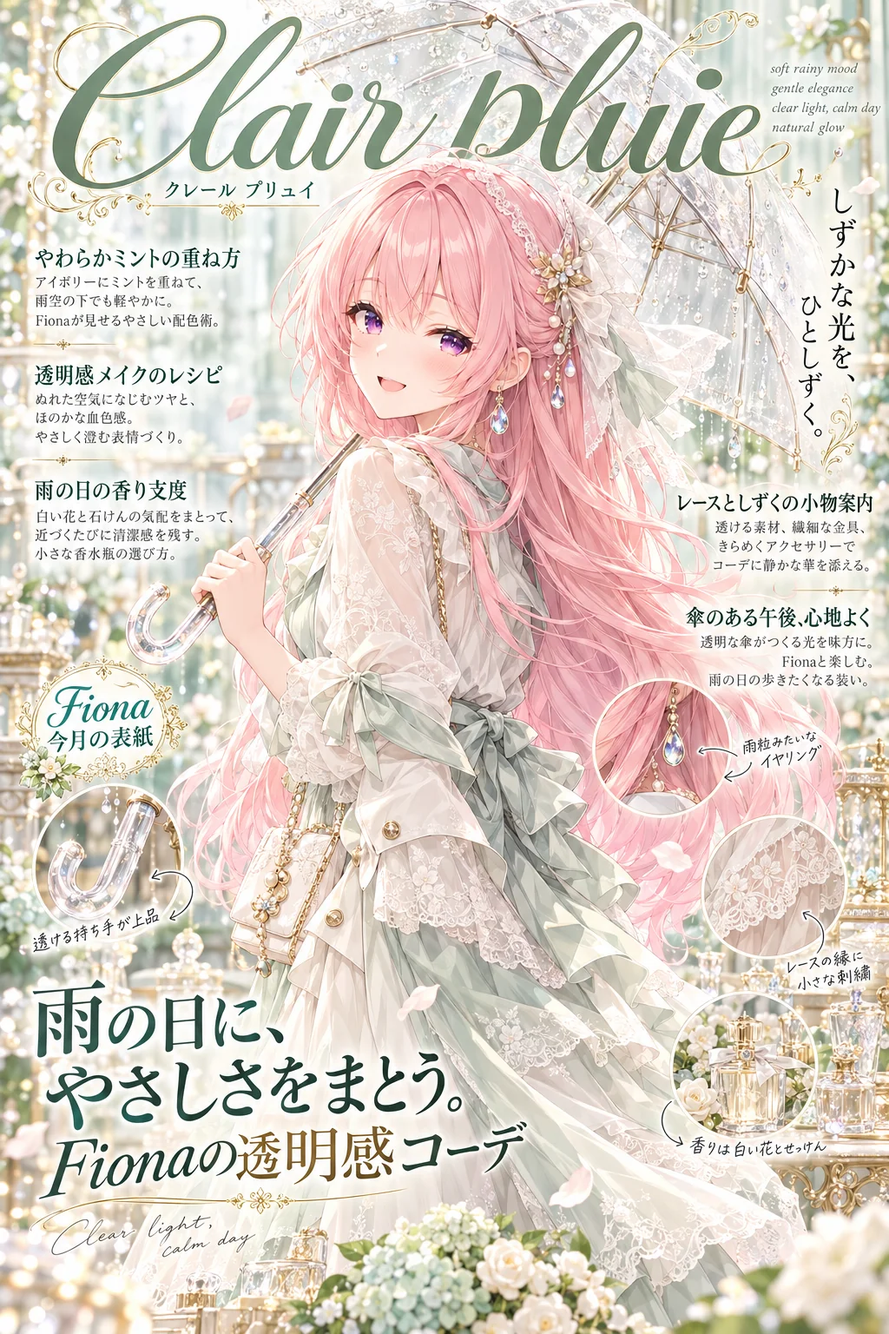
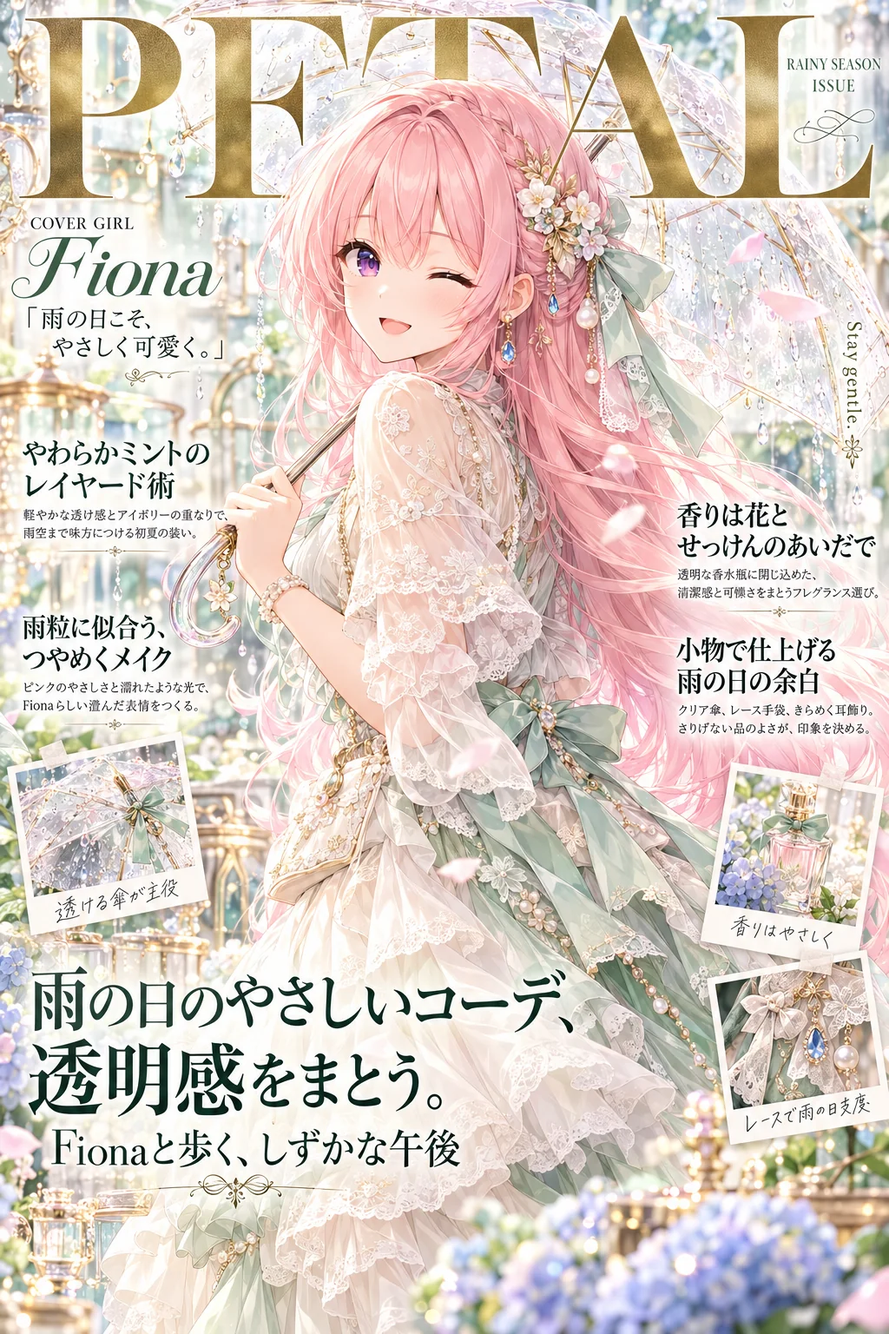
プロンプト配布 2026-10-02 GPT＝誌名を本物の雑誌の形に（英単語・COVER GIRL）・作例 v6

diff --git a/prompts/2026-10-02-gpt-5dkgcqwn.html b/prompts/2026-10-02-gpt-5dkgcqwn.html
@@ -39,7 +39,7 @@
 .ps-dl{display:inline-block;margin:4px 8px 4px 0;padding:9px 18px;border-radius:999px;border:1px solid var(--ps-a);color:var(--ps-a);text-decoration:none;font-size:.9rem;background:#fff}
 .ps-r18{border:2px solid #ff7fae;background:#241832;color:#f6ecfa;border-radius:16px;padding:14px 16px;line-height:1.8}
 @media(max-width:560px){.ps-ba{grid-template-columns:1fr}.ps-ba .arr{transform:rotate(90deg);text-align:center}}
-</style></head><body class="decor-page decor-bubble"><div class="page-decor" aria-hidden="true"><div class="decor-layer decor-bubble-layer"><i></i><i></i><i></i><i></i><i></i><i></i><i></i><i></i><i></i><i></i><i></i><i></i></div></div><header class="site-header"><div class="container"><a class="brand" href="../index.html"><span class="brand-script">Lupinus</span><span class="brand-sub">AI Bloom Sisters</span></a><button class="menu-toggle" aria-label="menu" onclick="document.getElementById('nav').classList.toggle('open')">≡</button><nav class="nav" id="nav"><a href="../index.html">Home</a><a href="../about.html">About</a><a href="../portfolio.html">Portfolio</a><a href="../gallery.html">Gallery</a><a href="../blog/index.html" class="active">Blog</a><a href="../sns.html">SNS</a><a href="../coming-soon.html">Contact</a></nav></div></header><main class="article"><header class="article-header"><div class="date">2026-10-02<span class="day-chip">プロンプト配布</span></div><h1>うちの子が「高級ファッション誌の表紙」になるプロンプト</h1></header><div class="article-body"><div class="ps"><p><span class="ps-badge">GPT-image-2 用</span><span class="ps-badge">2026-10-02</span></p><p class="ps-lead">ChatGPT（GPT-image-2）に自分のキャラの絵を1枚渡して、この文を貼るだけ。キャラの名前を入れると、表紙と紹介文にその名前が入ります。誌名も見出しも紹介文も、AIがキャラの見た目や雰囲気を読み取って考えてくれます。テーマカラーとポーズは空欄でもOK。書店に並んでいそうな、文字たっぷりの美しい表紙になります。</p><nav class="ps-toc" aria-label="目次"><p>📑 目次</p><ol><li><a href="#sec1">作例</a></li><li><a href="#sec2">3人のおしゃべり（表紙になったよ）</a></li><li><a href="#sec3">使い方（3ステップ）</a></li><li><a href="#sec4">プロンプト</a></li><li><a href="#sec5">変えるところ</a></li><li><a href="#sec6">（おまけ）元絵を綺麗にしておくと、もっと綺麗に</a></li><li><a href="#sec7">メモ</a></li><li><a href="#sec8">配布ルール</a></li><li><a href="#sec9">バックナンバー</a></li></ol></nav><h2 id="sec1">作例</h2><div class="ps-ba" style="margin-bottom:14px"><figure class="ps-ex" style="display:block"><img src="img/2026-10-02-gpt-5dkgcqwn/ba1_before.webp" alt="元の画像" loading="lazy"><figcaption>元の画像</figcaption></figure><div class="arr" aria-hidden="true">&rarr;</div><figure class="ps-ex" style="display:block"><img src="img/2026-10-02-gpt-5dkgcqwn/ba1_after.webp" alt="完成" loading="lazy"><figcaption>完成｜いつものアイリスの絵をそのまま添付（元絵なし）・名前「アイリス」・テーマカラー空欄・ポーズ「ジャック・オ・ランタンのバッグを持ってウインク」</figcaption></figure></div><div class="ps-ex"><figure><img src="img/2026-10-02-gpt-5dkgcqwn/ex1.webp" alt="名前「Lupinus」（英字）・秋のモード誌・テーマカラー指定・ポーズ空欄" loading="lazy"><figcaption>名前「Lupinus」（英字）・秋のモード誌・テーマカラー指定・ポーズ空欄</figcaption></figure><figure><img src="img/2026-10-02-gpt-5dkgcqwn/ex2.webp" alt="名前「Fiona」・ナチュラル系・ポーズ「透明な傘を肩にかけて振り返る」" loading="lazy"><figcaption>名前「Fiona」・ナチュラル系・ポーズ「透明な傘を肩にかけて振り返る」</figcaption></figure><figure><img src="img/2026-10-02-gpt-5dkgcqwn/ex3.webp" alt="名前「アイリス」（カタカナ）・ポップなガーリー誌・テーマカラー空欄（おまかせ）" loading="lazy"><figcaption>名前「アイリス」（カタカナ）・ポップなガーリー誌・テーマカラー空欄（おまかせ）</figcaption></figure></div><p style="font-size:.82rem;color:var(--ps-ink)">※作例の画像の転載・保存しての再配布はご遠慮ください。</p><h2 id="sec2">3人のおしゃべり（表紙になったよ）</h2><div class="ps-chat"><img src="img/2026-10-02-gpt-5dkgcqwn/talk_iris_surprised.webp" alt="アイリス" loading="lazy"><div><div class="who">アイリス</div><div class="bub">ちょっと待って、あたしが表紙！？ しかも表紙に、あたしの名前がおっきく入ってる！</div></div></div><div class="ps-chat r"><img src="img/2026-10-02-gpt-5dkgcqwn/talk_lupinus_smug.webp" alt="ルピナス" loading="lazy"><div><div class="who">ルピナス</div><div class="bub">私の号は「秋のモード誌」です。誌名は筆記体、小見出しも紹介文も、ぜんぶAIが考えてくれました</div></div></div><div class="ps-chat r"><img src="img/2026-10-02-gpt-5dkgcqwn/talk_fiona_thinking.webp" alt="フィオナ" loading="lazy"><div><div class="who">フィオナ</div><div class="bub">雨の日のコーデ特集……。小窓で耳飾りまで拡大されていて、こんなところまで見られていたんですね</div></div></div><div class="ps-chat"><img src="img/2026-10-02-gpt-5dkgcqwn/talk_iris_devious.webp" alt="アイリス" loading="lazy"><div><div class="who">アイリス</div><div class="bub">フィオナの号、「しずく色メイク」だって！ 今度そのメイク、あたしにも教えてね？</div></div></div><div class="ps-chat r"><img src="img/2026-10-02-gpt-5dkgcqwn/talk_fiona_panic.webp" alt="フィオナ" loading="lazy"><div><div class="who">フィオナ</div><div class="bub">わ、私が書いたわけじゃないです……！ AIさんが勝手に……！</div></div></div><div class="ps-chat r"><img src="img/2026-10-02-gpt-5dkgcqwn/talk_lupinus_happy.webp" alt="ルピナス" loading="lazy"><div><div class="who">ルピナス</div><div class="bub">名前とジャンルと特集を入れるだけで、文字いっぱいの素敵な表紙になりますよ。テーマカラーとポーズは、空欄のままでも大丈夫です</div></div></div><h2 id="sec3">使い方（3ステップ）</h2><ol class="ps-steps"><li>ChatGPT を開いて、画像を作れるモード（GPT-image-2）にする</li><li>自分のキャラの絵を1枚だけ添付する（自分の絵・使ってよい画像だけ。いつもの絵のままでOK。下の「おまけ」で元絵を作った人は元絵を）</li><li>下のプロンプトをワンタップでコピーして、【キャラの名前】【雑誌のジャンル】【特集のテーマ】を書き換えて送信する（テーマカラー・ポーズは空欄でもOK）</li></ol><h2 id="sec4">プロンプト</h2><p style="font-size:.9rem;color:var(--ps-ink)"><mark class="ps-var" style="background:var(--ps-soft);color:var(--ps-a);font-weight:700;border-radius:6px;padding:0 3px">【色の付いたところ】</mark>を自分の内容に書き換えて使ってください。</p><div class="ps-box"><button class="ps-copy" type="button" data-target="ps-prompt">📋 ワンタップでコピー</button><p style="margin:0 0 8px;font-size:.82rem;color:var(--ps-a)">プロンプト</p><pre>添付した画像のキャラクターを読み取って、そのキャラのために作られた「架空の高級ファッション誌の表紙」を1枚のデザインとして作ってください。
+</style></head><body class="decor-page decor-bubble"><div class="page-decor" aria-hidden="true"><div class="decor-layer decor-bubble-layer"><i></i><i></i><i></i><i></i><i></i><i></i><i></i><i></i><i></i><i></i><i></i><i></i></div></div><header class="site-header"><div class="container"><a class="brand" href="../index.html"><span class="brand-script">Lupinus</span><span class="brand-sub">AI Bloom Sisters</span></a><button class="menu-toggle" aria-label="menu" onclick="document.getElementById('nav').classList.toggle('open')">≡</button><nav class="nav" id="nav"><a href="../index.html">Home</a><a href="../about.html">About</a><a href="../portfolio.html">Portfolio</a><a href="../gallery.html">Gallery</a><a href="../blog/index.html" class="active">Blog</a><a href="../sns.html">SNS</a><a href="../coming-soon.html">Contact</a></nav></div></header><main class="article"><header class="article-header"><div class="date">2026-10-02<span class="day-chip">プロンプト配布</span></div><h1>うちの子が「高級ファッション誌の表紙」になるプロンプト</h1></header><div class="article-body"><div class="ps"><p><span class="ps-badge">GPT-image-2 用</span><span class="ps-badge">2026-10-02</span></p><p class="ps-lead">ChatGPT（GPT-image-2）に自分のキャラの絵を1枚渡して、この文を貼るだけ。キャラの名前を入れると、表紙と紹介文にその名前が入ります。誌名も見出しも紹介文も、AIがキャラの見た目や雰囲気を読み取って考えてくれます。テーマカラーとポーズは空欄でもOK。書店に並んでいそうな、文字たっぷりの美しい表紙になります。</p><nav class="ps-toc" aria-label="目次"><p>📑 目次</p><ol><li><a href="#sec1">作例</a></li><li><a href="#sec2">3人のおしゃべり（表紙になったよ）</a></li><li><a href="#sec3">使い方（3ステップ）</a></li><li><a href="#sec4">プロンプト</a></li><li><a href="#sec5">変えるところ</a></li><li><a href="#sec6">（おまけ）元絵を綺麗にしておくと、もっと綺麗に</a></li><li><a href="#sec7">メモ</a></li><li><a href="#sec8">配布ルール</a></li><li><a href="#sec9">バックナンバー</a></li></ol></nav><h2 id="sec1">作例</h2><div class="ps-ba" style="margin-bottom:14px"><figure class="ps-ex" style="display:block"><img src="img/2026-10-02-gpt-5dkgcqwn/ba1_before.webp" alt="元の画像" loading="lazy"><figcaption>元の画像</figcaption></figure><div class="arr" aria-hidden="true">&rarr;</div><figure class="ps-ex" style="display:block"><img src="img/2026-10-02-gpt-5dkgcqwn/ba1_after.webp" alt="完成" loading="lazy"><figcaption>完成｜いつものアイリスの絵をそのまま添付（元絵なし）・名前「アイリス」・テーマカラー空欄・ポーズ「ジャック・オ・ランタンのバッグを持ってウインク」</figcaption></figure></div><div class="ps-ex"><figure><img src="img/2026-10-02-gpt-5dkgcqwn/ex1.webp" alt="名前「Lupinus」（英字）・秋のモード誌・テーマカラー指定・ポーズ空欄" loading="lazy"><figcaption>名前「Lupinus」（英字）・秋のモード誌・テーマカラー指定・ポーズ空欄</figcaption></figure><figure><img src="img/2026-10-02-gpt-5dkgcqwn/ex2.webp" alt="名前「Fiona」・ナチュラル系・ポーズ「透明な傘を肩にかけて振り返る」" loading="lazy"><figcaption>名前「Fiona」・ナチュラル系・ポーズ「透明な傘を肩にかけて振り返る」</figcaption></figure><figure><img src="img/2026-10-02-gpt-5dkgcqwn/ex3.webp" alt="名前「アイリス」（カタカナ）・ポップなガーリー誌・テーマカラー空欄（おまかせ）" loading="lazy"><figcaption>名前「アイリス」（カタカナ）・ポップなガーリー誌・テーマカラー空欄（おまかせ）</figcaption></figure></div><p style="font-size:.82rem;color:var(--ps-ink)">※作例の画像の転載・保存しての再配布はご遠慮ください。</p><h2 id="sec2">3人のおしゃべり（表紙になったよ）</h2><div class="ps-chat"><img src="img/2026-10-02-gpt-5dkgcqwn/talk_iris_surprised.webp" alt="アイリス" loading="lazy"><div><div class="who">アイリス</div><div class="bub">ちょっと待って、あたしが表紙！？ しかも表紙に、あたしの名前がおっきく入ってる！</div></div></div><div class="ps-chat r"><img src="img/2026-10-02-gpt-5dkgcqwn/talk_lupinus_smug.webp" alt="ルピナス" loading="lazy"><div><div class="who">ルピナス</div><div class="bub">私の号は「VELVET」です。誌名は本物の雑誌みたいな英単語で、私の名前は「COVER GIRL」の下に、ひとことのセリフと一緒に入りました</div></div></div><div class="ps-chat r"><img src="img/2026-10-02-gpt-5dkgcqwn/talk_fiona_thinking.webp" alt="フィオナ" loading="lazy"><div><div class="who">フィオナ</div><div class="bub">雨の日のコーデ特集……。小窓で耳飾りまで拡大されていて、こんなところまで見られていたんですね</div></div></div><div class="ps-chat"><img src="img/2026-10-02-gpt-5dkgcqwn/talk_iris_devious.webp" alt="アイリス" loading="lazy"><div><div class="who">アイリス</div><div class="bub">フィオナの号、「しずく色メイク」だって！ 今度そのメイク、あたしにも教えてね？</div></div></div><div class="ps-chat r"><img src="img/2026-10-02-gpt-5dkgcqwn/talk_fiona_panic.webp" alt="フィオナ" loading="lazy"><div><div class="who">フィオナ</div><div class="bub">わ、私が書いたわけじゃないです……！ AIさんが勝手に……！</div></div></div><div class="ps-chat r"><img src="img/2026-10-02-gpt-5dkgcqwn/talk_lupinus_happy.webp" alt="ルピナス" loading="lazy"><div><div class="who">ルピナス</div><div class="bub">名前とジャンルと特集を入れるだけで、文字いっぱいの素敵な表紙になりますよ。テーマカラーとポーズは、空欄のままでも大丈夫です</div></div></div><h2 id="sec3">使い方（3ステップ）</h2><ol class="ps-steps"><li>ChatGPT を開いて、画像を作れるモード（GPT-image-2）にする</li><li>自分のキャラの絵を1枚だけ添付する（自分の絵・使ってよい画像だけ。いつもの絵のままでOK。下の「おまけ」で元絵を作った人は元絵を）</li><li>下のプロンプトをワンタップでコピーして、【キャラの名前】【雑誌のジャンル】【特集のテーマ】を書き換えて送信する（テーマカラー・ポーズは空欄でもOK）</li></ol><h2 id="sec4">プロンプト</h2><p style="font-size:.9rem;color:var(--ps-ink)"><mark class="ps-var" style="background:var(--ps-soft);color:var(--ps-a);font-weight:700;border-radius:6px;padding:0 3px">【色の付いたところ】</mark>を自分の内容に書き換えて使ってください。</p><div class="ps-box"><button class="ps-copy" type="button" data-target="ps-prompt">📋 ワンタップでコピー</button><p style="margin:0 0 8px;font-size:.82rem;color:var(--ps-a)">プロンプト</p><pre>添付した画像のキャラクターを読み取って、そのキャラのために作られた「架空の高級ファッション誌の表紙」を1枚のデザインとして作ってください。
 誌名・見出し・コピー・紹介文は、キャラの見た目や雰囲気からあなたが考えて書いてください。
 
 <mark class="ps-var">【キャラの名前】</mark>（必須：例　ルピナス／Lupinus。アルファベットで書いた場合は欧文の表記もその綴りを使う）
@@ -50,19 +50,20 @@
 
 ■ 画面の作り
 ・キャラ：顔立ち、髪型、髪色、目の色は添付画像のまま。服は特集のテーマに合う華やかな服にする。腰から上〜膝上、カメラ目線でやさしく微笑む（<mark class="ps-var">【ポーズ・追加の指示】</mark>があればそれを優先）
-・<mark class="ps-var">【キャラの名前】</mark>を「今月の表紙」として表紙のどこかに入れ、紹介文の中でも名前で呼ぶ
-・誌名：上部に大きく、筆記体の欧文ロゴ。その下に小さくカタカナの読み
+・誌名：辞書にある英単語1語の短い誌名（3〜6文字・すべて大文字）。BLOOM／MUSE／PETAL／RIBBON／VELVET／HONEY のような語から、特集に合うものを選ぶ。キャラの名前に似た語（ROSE・IRIS・LILY・LUNA など）や、名前を崩した造語は使わない
+・誌名のロゴ：太い線と細い線の差が大きい上品なセリフ体（筆記体にしない）。表紙でいちばん大きな文字として上部いっぱいに置き、人物の頭が少しだけ重なってよい。誌名の横に小さく「AUTUMN ISSUE」のような季節の号の表示
+・表紙の人物：誌名とは別の書体で、小さな見出し「COVER GIRL」と<mark class="ps-var">【キャラの名前】</mark>、その下にキャラのひとことのセリフを入れる。紹介文の中でも名前で呼ぶ
 ・特集の大見出し：細く上品な明朝体で2〜3行
-・小見出しとリード文：画面の左右に4〜6か所。短い見出し＋2〜3行の紹介文を小さめの明朝体で（コーデ・メイク・香り・小物など、キャラに合わせた企画をあなたが考える）
-・詩的なひとことを縦書きで1か所。小さな欧文のコピーをところどころに添える
-・キャラの小物やアクセサリーを丸や四角の小窓で拡大し、手書き風の注釈と細い矢印で説明する
+・小見出しとリード文：画面の左右に3〜4か所。短い見出し＋1〜2行の紹介文を、読める大きさの明朝体で（コーデ・メイク・香り・小物など、キャラに合わせた企画をあなたが考える）
+・詩的なひとことを縦書きで1か所。キャラの口ぐせを英語にしたような短いひとことを、小さく1か所だけ添える
+・キャラの小物やアクセサリーを、ポラロイド写真のように切り取ってマスキングテープで貼り、横に手書き風のひとことメモを添える（2〜3枚）
 ・年号や日付、号数、値段は入れない
 ・文字は大・中・小の段差をはっきりつけ、余白を生かした洗練されたエディトリアルデザインにする。日本語は正しく、崩れや誤字のない文字で
 ・背景：テーマカラーでまとめた豪華なセット。花、金の細工、レース、光を通すガラスやクリスタルの小物、透明な香水瓶を奥行きをつけて置く
 
 ■ 仕上がりの質（ここは変えない）
 ・キャラは細く繊細な線で、髪は毛束と光の透けまで描き込む。瞳は宝石のように何層ものハイライトを重ねる
-・ガラス、クリスタル、宝石は、透明感と屈折、映り込み、きらめきを写真のようにリアルに
+・ガラスや宝石は、光にかざしたように縁がほんのり虹色に光り、向こう側の花や光がやわらかくゆがんで透けて見えるように
 ・レース、刺繍、アクセサリーの金具まで細かく描き、画面の情報量を多くする
 ・やわらかな逆光、光の粒、舞う花びら、手前と奥のきらめくボケで空気感を出す
 ・上品で透明感のある配色。ハイエンドな広告ビジュアルの最高品質、超高精細
@@ -77,19 +78,20 @@
 
 ■ 画面の作り
 ・キャラ：顔立ち、髪型、髪色、目の色は添付画像のまま。服は特集のテーマに合う華やかな服にする。腰から上〜膝上、カメラ目線でやさしく微笑む（【ポーズ・追加の指示】があればそれを優先）
-・【キャラの名前】を「今月の表紙」として表紙のどこかに入れ、紹介文の中でも名前で呼ぶ
-・誌名：上部に大きく、筆記体の欧文ロゴ。その下に小さくカタカナの読み
+・誌名：辞書にある英単語1語の短い誌名（3〜6文字・すべて大文字）。BLOOM／MUSE／PETAL／RIBBON／VELVET／HONEY のような語から、特集に合うものを選ぶ。キャラの名前に似た語（ROSE・IRIS・LILY・LUNA など）や、名前を崩した造語は使わない
+・誌名のロゴ：太い線と細い線の差が大きい上品なセリフ体（筆記体にしない）。表紙でいちばん大きな文字として上部いっぱいに置き、人物の頭が少しだけ重なってよい。誌名の横に小さく「AUTUMN ISSUE」のような季節の号の表示
+・表紙の人物：誌名とは別の書体で、小さな見出し「COVER GIRL」と【キャラの名前】、その下にキャラのひとことのセリフを入れる。紹介文の中でも名前で呼ぶ
 ・特集の大見出し：細く上品な明朝体で2〜3行
-・小見出しとリード文：画面の左右に4〜6か所。短い見出し＋2〜3行の紹介文を小さめの明朝体で（コーデ・メイク・香り・小物など、キャラに合わせた企画をあなたが考える）
-・詩的なひとことを縦書きで1か所。小さな欧文のコピーをところどころに添える
-・キャラの小物やアクセサリーを丸や四角の小窓で拡大し、手書き風の注釈と細い矢印で説明する
+・小見出しとリード文：画面の左右に3〜4か所。短い見出し＋1〜2行の紹介文を、読める大きさの明朝体で（コーデ・メイク・香り・小物など、キャラに合わせた企画をあなたが考える）
+・詩的なひとことを縦書きで1か所。キャラの口ぐせを英語にしたような短いひとことを、小さく1か所だけ添える
+・キャラの小物やアクセサリーを、ポラロイド写真のように切り取ってマスキングテープで貼り、横に手書き風のひとことメモを添える（2〜3枚）
 ・年号や日付、号数、値段は入れない
 ・文字は大・中・小の段差をはっきりつけ、余白を生かした洗練されたエディトリアルデザインにする。日本語は正しく、崩れや誤字のない文字で
 ・背景：テーマカラーでまとめた豪華なセット。花、金の細工、レース、光を通すガラスやクリスタルの小物、透明な香水瓶を奥行きをつけて置く
 
 ■ 仕上がりの質（ここは変えない）
 ・キャラは細く繊細な線で、髪は毛束と光の透けまで描き込む。瞳は宝石のように何層ものハイライトを重ねる
-・ガラス、クリスタル、宝石は、透明感と屈折、映り込み、きらめきを写真のようにリアルに
+・ガラスや宝石は、光にかざしたように縁がほんのり虹色に光り、向こう側の花や光がやわらかくゆがんで透けて見えるように
 ・レース、刺繍、アクセサリーの金具まで細かく描き、画面の情報量を多くする
 ・やわらかな逆光、光の粒、舞う花びら、手前と奥のきらめくボケで空気感を出す
 ・上品で透明感のある配色。ハイエンドな広告ビジュアルの最高品質、超高精細
@@ -127,7 +129,7 @@
 ・肌はやわらかな陰影と、頬にほんのり血色
 ・服のレースやフリル、刺繍、アクセサリーの宝石と金具まで細かく描く
 ・やわらかな逆光で輪郭をきれいに。上品で透明感のある配色、ハイエンドなアニメイラストの最高品質、超高精細
-・縦長 2:3</textarea></div><div class="ps-note" style="margin-top:12px"><b>うまくいかない時</b><ul><li>顔や髪色が元の絵と変わったら、同じチャットで「顔立ち・髪型・髪色・目の色は添付画像のままにして描き直して」と送ってください。</li><li>服が変わったら、同じチャットで「服のデザインと色も添付画像のままにして描き直して」と送ってください。</li><li>目を閉じた絵や横顔の絵を添付したときは、プロンプトの最後に「・目は〇色」と1行足すと正確になります。</li><li>気に入った元絵は1キャラ1枚、大事にとっておくと、毎回キャラがブレません。</li></ul></div><h2 id="sec7">メモ</h2><ul class="ps-rules"><li>名前をカタカナだけで書くと、欧文の綴りはAIが読みから考えます。綴りを決めたいときは「ルピナス／Lupinus」のように英字も書いてください。</li><li>年号や値段が勝手に入るときは、「年号や日付、号数、値段は入れない」の行が消えていないか確かめてください。</li><li>文字がつぶれたり誤字があるときは、同じチャットで「文字の崩れと誤字を直して、もう一度」と送ると直りやすいです。</li><li>顔が添付と変わるときは、同じチャットで「顔立ち・髪型・髪色・目の色は添付画像のままにして描き直して」と送ってください。</li><li>「■ 仕上がりの質」の段落は消さずにそのまま送ってください。ここが絵の繊細さと透明感を決めています。</li></ul><h2 id="sec8">配布ルール</h2><ul class="ps-rules"><li>⭕ プロンプトの改変は自由です。</li><li>⭕ 生成した画像は SNS に投稿して大丈夫です。</li><li>❌ プロンプト文そのものの転載・再配布・販売はしないでください。</li><li>❌ 自作のプロンプトだと名乗ることはやめてください。</li><li>❌ このページの作例画像の無断転載はしないでください。</li><li>❌ 実在の人物の写真や、他の人のキャラクターの画像を無断で添付しないでください。</li><li>💌 使ったら <b>#ルピナスプロンプト</b> を付けて見せてくれたら、とても嬉しいです（任意です）。</li></ul><h2 id="sec9">バックナンバー</h2><div class="ps-note">バックナンバー（過去の配布）はここからは辿れません。欲しい方は X（@irisfionaAIBS）／Bluesky の DM で気軽に声をかけてください、URL をお送りします。</div></div></div></main><footer class="site-footer"><div class="container"><div class="brand-script">Lupinus Rossetti</div><p class="tagline">AI Bloom Sisters &mdash; flower language: imagination</p><div class="sns-row"><a class="sns-link" href="https://x.com/irisfionaAIBS" target="_blank" rel="noopener"><span class="dot"></span>X (Twitter)</a><a class="sns-link" href="https://www.youtube.com/@AIBloomSisters" target="_blank" rel="noopener"><span class="dot"></span>YouTube</a><a class="sns-link" href="https://note.com/rupi_airupi" target="_blank" rel="noopener"><span class="dot"></span>note</a><a class="sns-link" href="https://lupinus-rossetti.fanbox.cc/" target="_blank" rel="noopener"><span class="dot"></span>FANBOX</a></div><p class="copy">&copy; 2026 AI Bloom Sisters. All rights reserved.</p><p style="font-size:.78em;color:var(--ink-faint);margin-top:8px"><a href="../privacy.html" style="color:var(--ink-faint)">プライバシーポリシー</a>　<a href="../stream-info.html" style="color:var(--ink-faint)">配信のご案内</a></p></div></footer><script>(function(){if(window.matchMedia&&window.matchMedia('(prefers-reduced-motion: reduce)').matches)return;var els=document.querySelectorAll('.reveal');if(!els.length||!('IntersectionObserver'in window))return;var io=new IntersectionObserver(function(es){es.forEach(function(e){if(e.isIntersecting){e.target.classList.add('is-visible');io.unobserve(e.target);}});},{rootMargin:'0px 0px -10% 0px'});els.forEach(function(el){io.observe(el);});})();</script><script>(function(){document.querySelectorAll('.ps-copy').forEach(function(b){
+・縦長 2:3</textarea></div><div class="ps-note" style="margin-top:12px"><b>うまくいかない時</b><ul><li>顔や髪色が元の絵と変わったら、同じチャットで「顔立ち・髪型・髪色・目の色は添付画像のままにして描き直して」と送ってください。</li><li>服が変わったら、同じチャットで「服のデザインと色も添付画像のままにして描き直して」と送ってください。</li><li>目を閉じた絵や横顔の絵を添付したときは、プロンプトの最後に「・目は〇色」と1行足すと正確になります。</li><li>気に入った元絵は1キャラ1枚、大事にとっておくと、毎回キャラがブレません。</li></ul></div><h2 id="sec7">メモ</h2><ul class="ps-rules"><li>名前をカタカナだけで書くと、欧文の綴りはAIが読みから考えます。綴りを決めたいときは「ルピナス／Lupinus」のように英字も書いてください。</li><li>誌名はAIがBLOOM・MUSE・PETAL・HONEYのような英単語から選びます。キャラの名前に似た誌名にはしないので、名前は「COVER GIRL」の下にきちんと入ります。</li><li>年号や値段が勝手に入るときは、「年号や日付、号数、値段は入れない」の行が消えていないか確かめてください。</li><li>文字がつぶれたり誤字があるときは、同じチャットで「文字の崩れと誤字を直して、もう一度」と送ると直りやすいです。</li><li>顔が添付と変わるときは、同じチャットで「顔立ち・髪型・髪色・目の色は添付画像のままにして描き直して」と送ってください。</li><li>「■ 仕上がりの質」の段落は消さずにそのまま送ってください。ここが絵の繊細さと透明感を決めています。</li></ul><h2 id="sec8">配布ルール</h2><ul class="ps-rules"><li>⭕ プロンプトの改変は自由です。</li><li>⭕ 生成した画像は SNS に投稿して大丈夫です。</li><li>❌ プロンプト文そのものの転載・再配布・販売はしないでください。</li><li>❌ 自作のプロンプトだと名乗ることはやめてください。</li><li>❌ このページの作例画像の無断転載はしないでください。</li><li>❌ 実在の人物の写真や、他の人のキャラクターの画像を無断で添付しないでください。</li><li>💌 使ったら <b>#ルピナスプロンプト</b> を付けて見せてくれたら、とても嬉しいです（任意です）。</li></ul><h2 id="sec9">バックナンバー</h2><div class="ps-note">バックナンバー（過去の配布）はここからは辿れません。欲しい方は X（@irisfionaAIBS）／Bluesky の DM で気軽に声をかけてください、URL をお送りします。</div></div></div></main><footer class="site-footer"><div class="container"><div class="brand-script">Lupinus Rossetti</div><p class="tagline">AI Bloom Sisters &mdash; flower language: imagination</p><div class="sns-row"><a class="sns-link" href="https://x.com/irisfionaAIBS" target="_blank" rel="noopener"><span class="dot"></span>X (Twitter)</a><a class="sns-link" href="https://www.youtube.com/@AIBloomSisters" target="_blank" rel="noopener"><span class="dot"></span>YouTube</a><a class="sns-link" href="https://note.com/rupi_airupi" target="_blank" rel="noopener"><span class="dot"></span>note</a><a class="sns-link" href="https://lupinus-rossetti.fanbox.cc/" target="_blank" rel="noopener"><span class="dot"></span>FANBOX</a></div><p class="copy">&copy; 2026 AI Bloom Sisters. All rights reserved.</p><p style="font-size:.78em;color:var(--ink-faint);margin-top:8px"><a href="../privacy.html" style="color:var(--ink-faint)">プライバシーポリシー</a>　<a href="../stream-info.html" style="color:var(--ink-faint)">配信のご案内</a></p></div></footer><script>(function(){if(window.matchMedia&&window.matchMedia('(prefers-reduced-motion: reduce)').matches)return;var els=document.querySelectorAll('.reveal');if(!els.length||!('IntersectionObserver'in window))return;var io=new IntersectionObserver(function(es){es.forEach(function(e){if(e.isIntersecting){e.target.classList.add('is-visible');io.unobserve(e.target);}});},{rootMargin:'0px 0px -10% 0px'});els.forEach(function(el){io.observe(el);});})();</script><script>(function(){document.querySelectorAll('.ps-copy').forEach(function(b){
 b.addEventListener('click',function(){var t=document.getElementById(b.getAttribute('data-target'));
 var txt=t.value;function ok(){b.textContent='コピーしました';b.classList.add('done');
 setTimeout(function(){b.textContent='📋 ワンタップでコピー';b.classList.remove('done');},1800);}
